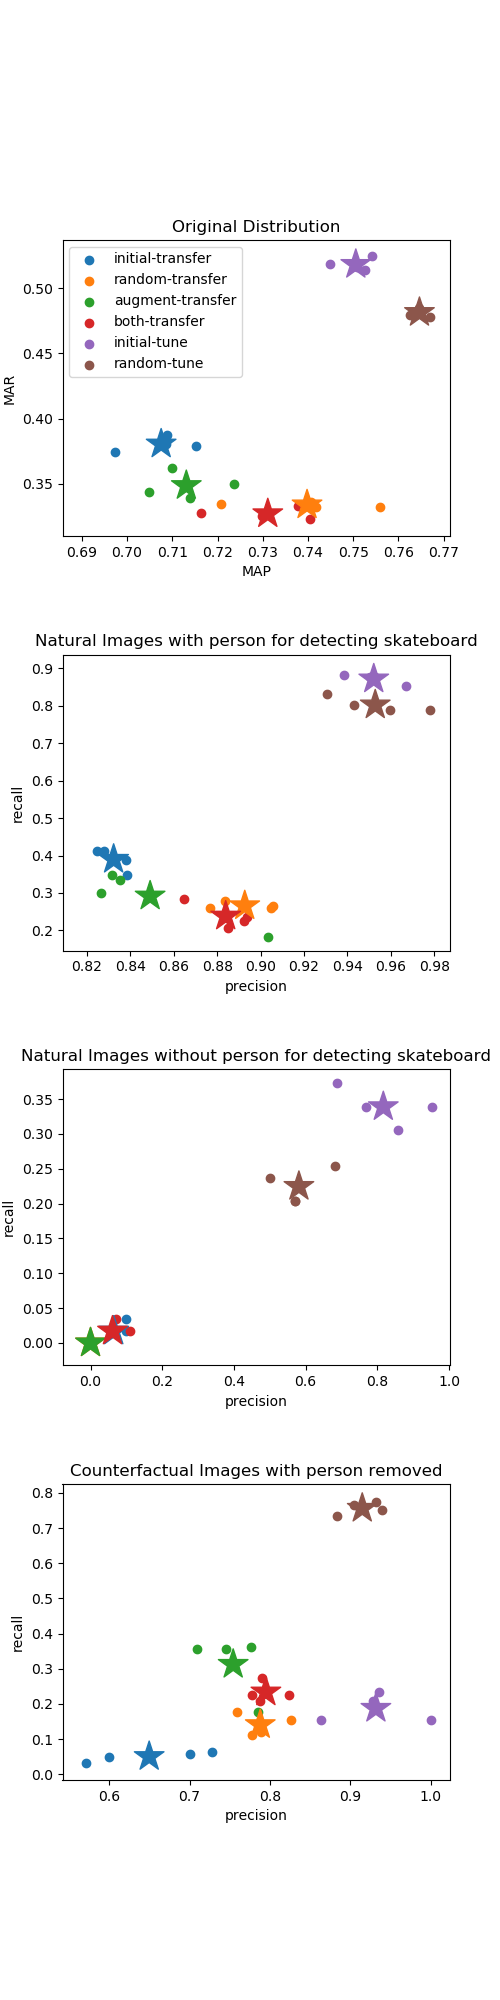
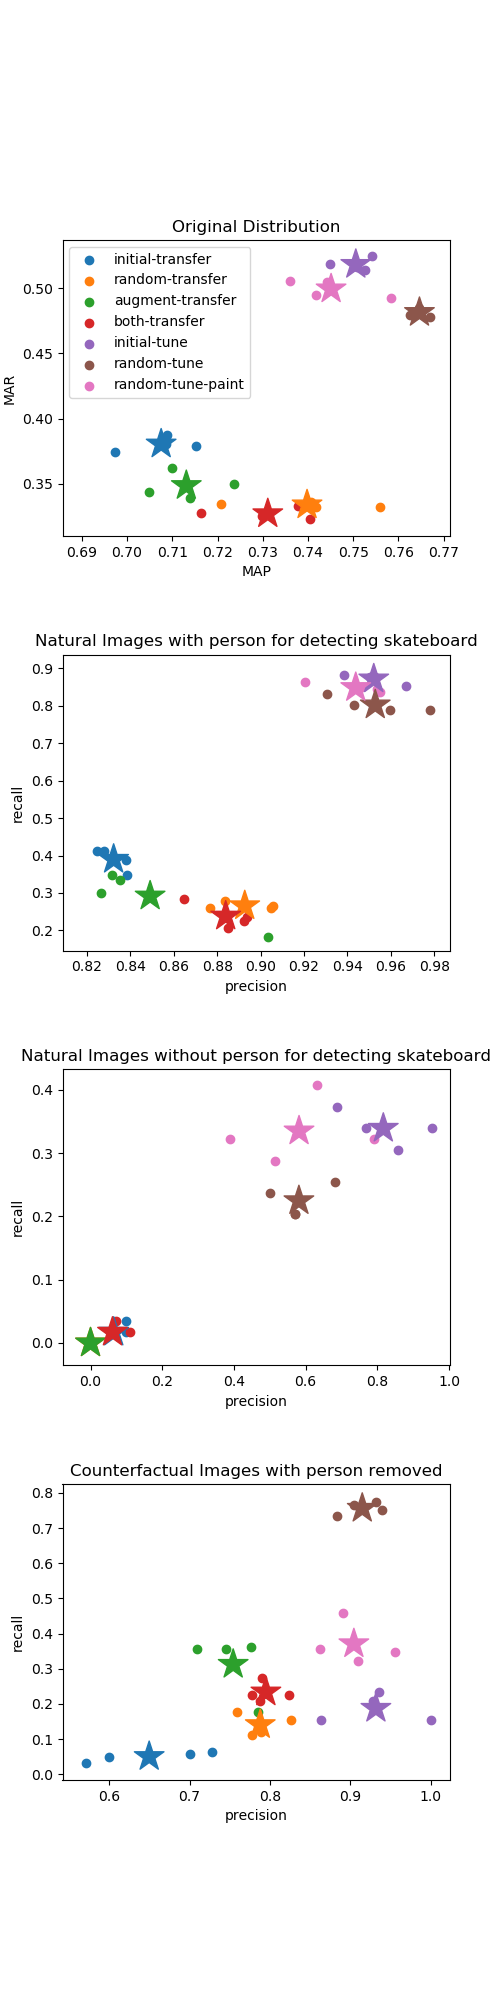
Added results for data augmentation with inpainted images

diff --git a/COCO/Models.py b/COCO/Models.py
@@ -35,6 +35,14 @@ def run(config):
             sources[mode].append('{}/{}{}-info.p'.format(root, mode, year))
             sources[mode].append('{}/{}{}-random-info.p'.format(root, mode, year))
             
+    if task in ['random-tune-paint']:
+        sources = {}
+        for mode in ['train', 'val']:
+            sources[mode] = []
+            
+            sources[mode].append('{}/{}{}-info.p'.format(root, mode, year))
+            sources[mode].append('{}/{}{}-random-paint-info.p'.format(root, mode, year))
+            
     if task == 'augment-transfer':
         sources = {}
         for mode in ['train', 'val']:
@@ -57,7 +65,7 @@ def run(config):
             sources[mode].append('{}/{}{}-{}-info.p'.format(root, mode, year, spurious_class))
 
         
-    if task in ['initial-transfer', 'random-transfer', 'augment-transfer', 'both-transfer', 'initial-tune', 'random-tune']:
+    if task in ['initial-transfer', 'random-transfer', 'augment-transfer', 'both-transfer', 'initial-tune', 'random-tune', 'random-tune-paint']:
     
         datasets = {}
         dataloaders = {}

diff --git a/COCO/Plot.py b/COCO/Plot.py
@@ -44,7 +44,7 @@ if __name__ == '__main__':
         plt.scatter(p_mean, r_mean, marker = '*', s = 500, c = plt.rcParams['axes.prop_cycle'].by_key()['color'][:len(p_mean)])
 
     
-    tasks = ['initial-transfer', 'random-transfer', 'augment-transfer', 'both-transfer', 'initial-tune', 'random-tune']
+    tasks = ['initial-transfer', 'random-transfer', 'augment-transfer', 'both-transfer', 'initial-tune', 'random-tune', 'random-tune-paint']
 
     # Format the plot grid
     num_plots = 4

diff --git a/COCO/Configs.py b/COCO/Configs.py
@@ -20,7 +20,7 @@ for trial in trial_list:
 
     configs_trial = []
 
-    if task in ['initial-transfer', 'random-transfer', 'initial-tune', 'random-tune']:
+    if task in ['initial-transfer', 'random-transfer', 'initial-tune', 'random-tune', 'random-tune-paint']:
         configs_trial.append([root, year, trial, task])
         
     if task in ['augment-transfer', 'both-transfer']:
